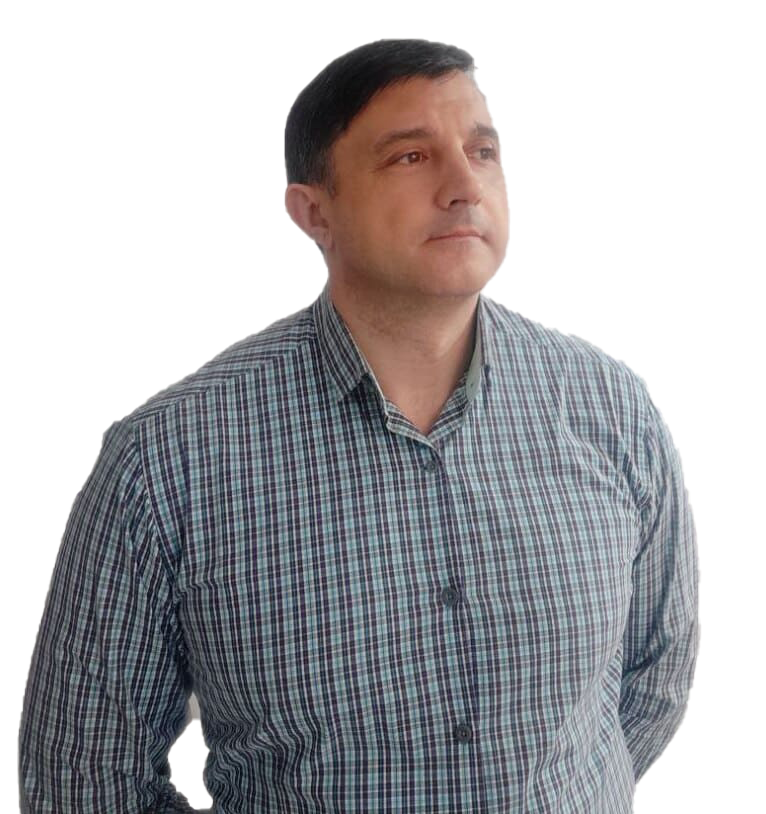
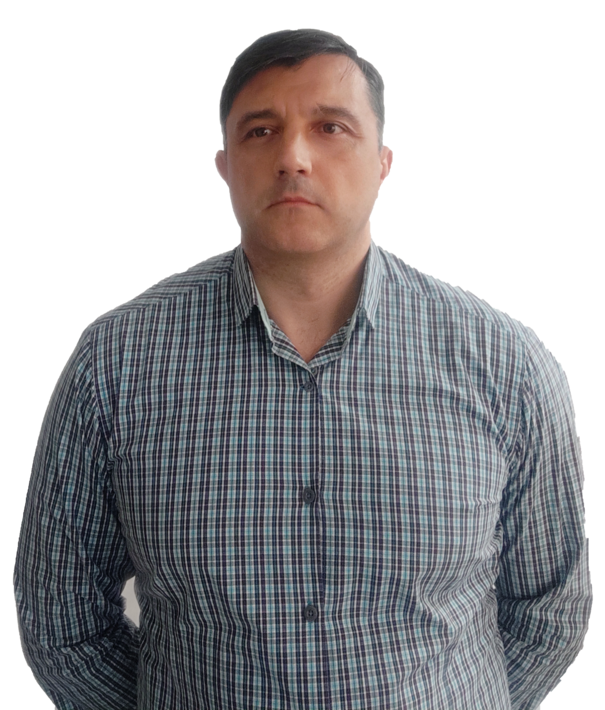
added content 80%

diff --git a/frontend_react/src/container/Work/Work.jsx b/frontend_react/src/container/Work/Work.jsx
@@ -40,15 +40,35 @@ const Work = () => {
             <h2 className='head-text'>My Creative <span>Portfolio</span> section</h2>
 
             <div className='app__work-filter'>
-                {['UI/UX', 'Web App', 'Mobile App', 'React JS', 'All'].map((item, index)=>(
-                    <div
-                       key={index}
-                       onClick={()=>handleWorkFilter(item)}
-                       className={`p-text app__work-filter-item app__flex  ${activeFilter === item ? 'item-active' : ''}`}
-                    >
-                        {item}
-                    </div>
-                ))}
+
+                <div className='app__flex'>
+                    {['Web App', 'Web App fragment', 'Website', 'Landing Page'].map((item, index)=>(
+                        <div
+                            key={index}
+                            onClick={()=>handleWorkFilter(item)}
+                            className={`p-text app__work-filter-item app__flex  ${activeFilter === item ? 'item-active' : ''}`}
+                        >
+                            {item}
+                        </div>
+                    ))}
+                </div>
+                <div className='app__flex'>
+                    {['HTML JS',  'React JS'].map((item, index)=>(
+                        <div
+                            key={index}
+                            onClick={()=>handleWorkFilter(item)}
+                            className={`p-text app__work-filter-item app__flex  ${activeFilter === item ? 'item-active' : ''}`}
+                        >
+                            {item}
+                        </div>
+                    ))}
+                </div>
+                <div
+                    onClick={()=>handleWorkFilter('All')}
+                    className={`p-text app__work-filter-item app__flex  ${activeFilter === 'All' ? 'item-active' : ''}`}
+                >
+                    All
+                </div>
             </div>
 
             <motion.div
@@ -67,20 +87,20 @@ const Work = () => {
                                 transition={{duration: .25, ease: 'easeInOut', staggerChildren: .5}}
                                 className='app__work-hover app__flex'
                             >
-                                {!!work.projectLink && <a href={work.projectLink} target='blank' rel='noreferrer'>
+                                {!!work.projectLink && <a href={work.projectLink} target='_blank' rel='noreferrer'>
                                     <motion.div
                                         whileInView={{scale: [0, 1]}}
-                                        whileHover={{scale: [0, 0.9]}}
+                                        whileHover={{scale: [1, 0.9]}}
                                         transition={{duration: .25}}
                                         className='app__flex'
                                     >
                                         <AiFillEye/>
                                     </motion.div>
                                 </a>}
-                                <a href={work.codeLink} target='blank' rel='noreferrer'>
+                                <a href={work.codeLink} target='_blank' rel='noreferrer'>
                                     <motion.div
                                         whileInView={{scale: [0, 1]}}
-                                        whileHover={{scale: [0, 0.9]}}
+                                        whileHover={{scale: [1, 0.9]}}
                                         transition={{duration: .25}}
                                         className='app__flex'
                                     >

diff --git a/frontend_react/src/container/Skills/Skills.jsx b/frontend_react/src/container/Skills/Skills.jsx
@@ -7,7 +7,6 @@ import {urlFor, client} from "../../client";
 import {AppWrap, MotionWrap} from "../../wrapper";
 
 import './Skills.scss'
-import {logDOM} from "@testing-library/react";
 
 const Skills = () => {
 
@@ -15,8 +14,8 @@ const Skills = () => {
     const [skills, setSkills] = useState([]);
 
     useEffect(()=>{
-        const queryEx = '*[_type == "experiences"]';
-        const querySk = '*[_type == "skills"]';
+        const queryEx = '*[_type == "experiences"]| order(year asc)';
+        const querySk = '*[_type == "skills"]| order(name asc)';
 
         client.fetch(queryEx)
             .then((data)=>{

diff --git a/frontend_react/src/constants/images.js b/frontend_react/src/constants/images.js
@@ -24,6 +24,7 @@ import about03 from '../assets/about03.png';
 import about04 from '../assets/about04.png';
 
 import profile from '../assets/profile.png';
+import profile_ from '../assets/profile_.png';
 import circle from '../assets/circle.svg';
 import logo from '../assets/logo.png';
 
@@ -61,6 +62,7 @@ export default {
     about03,
     about04,
     profile,
+    profile_,
     circle,
     logo,
     adidas,

diff --git a/frontend_react/src/container/Work/Work.scss b/frontend_react/src/container/Work/Work.scss
@@ -7,7 +7,7 @@
 
 .app__work-filter{
   display: flex;
-  flex-direction: row;
+  flex-direction: column;
   justify-content: flex-start;
   align-items: center;
   flex-wrap: wrap;

diff --git a/frontend_react/src/container/Header/Header.scss b/frontend_react/src/container/Header/Header.scss
@@ -170,7 +170,7 @@
 
   display: flex;
   justify-content: flex-end;
-  align-items: flex-end;
+  align-items: center;
   position: relative;
 
   img{
